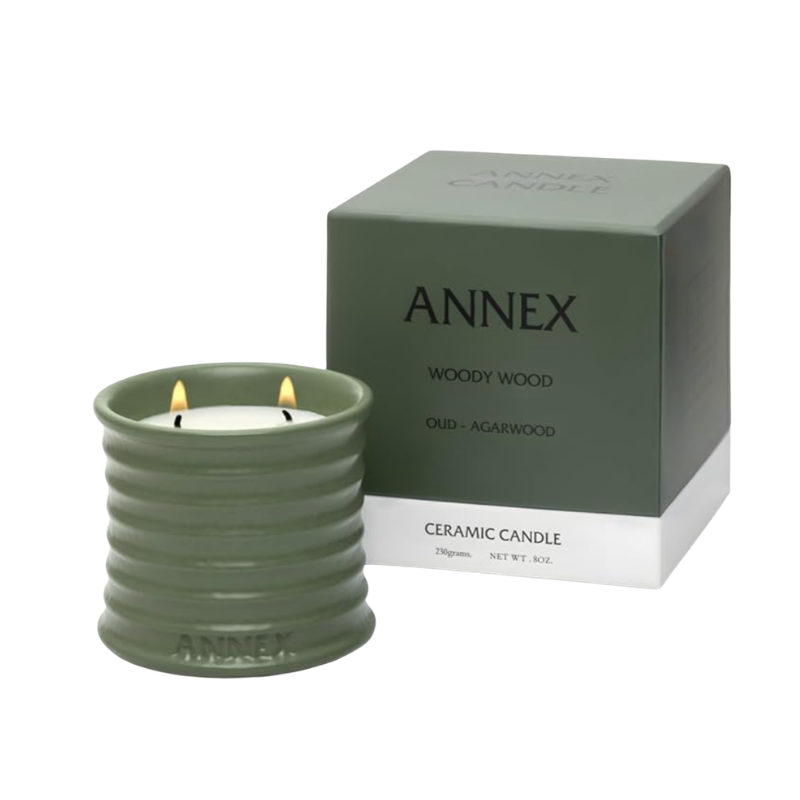
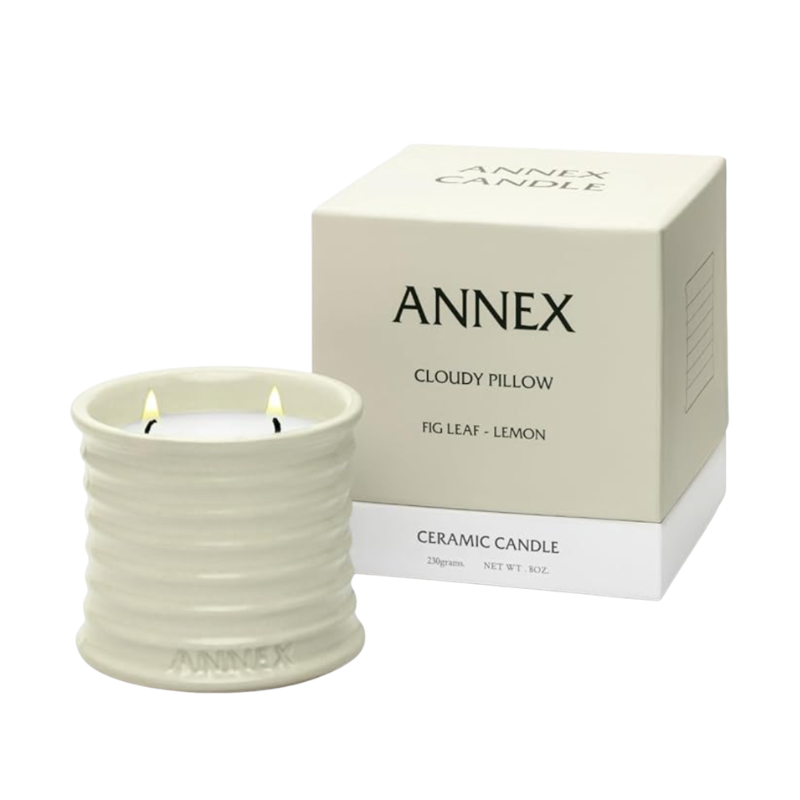
Rename Ceramic Candle → Fig Leaf & Lemon Ceramic Candle + fix image

diff --git a/lib/products.ts b/lib/products.ts
@@ -271,7 +271,7 @@ export const products: readonly Product[] = [
     featured: false,
   },
   {
-    name: "Ceramic Candle",
+    name: "Fig Leaf & Lemon Ceramic Candle",
     price: "$40",
     category: "bedroom",
     asin: "B0DJG6RPWV",
